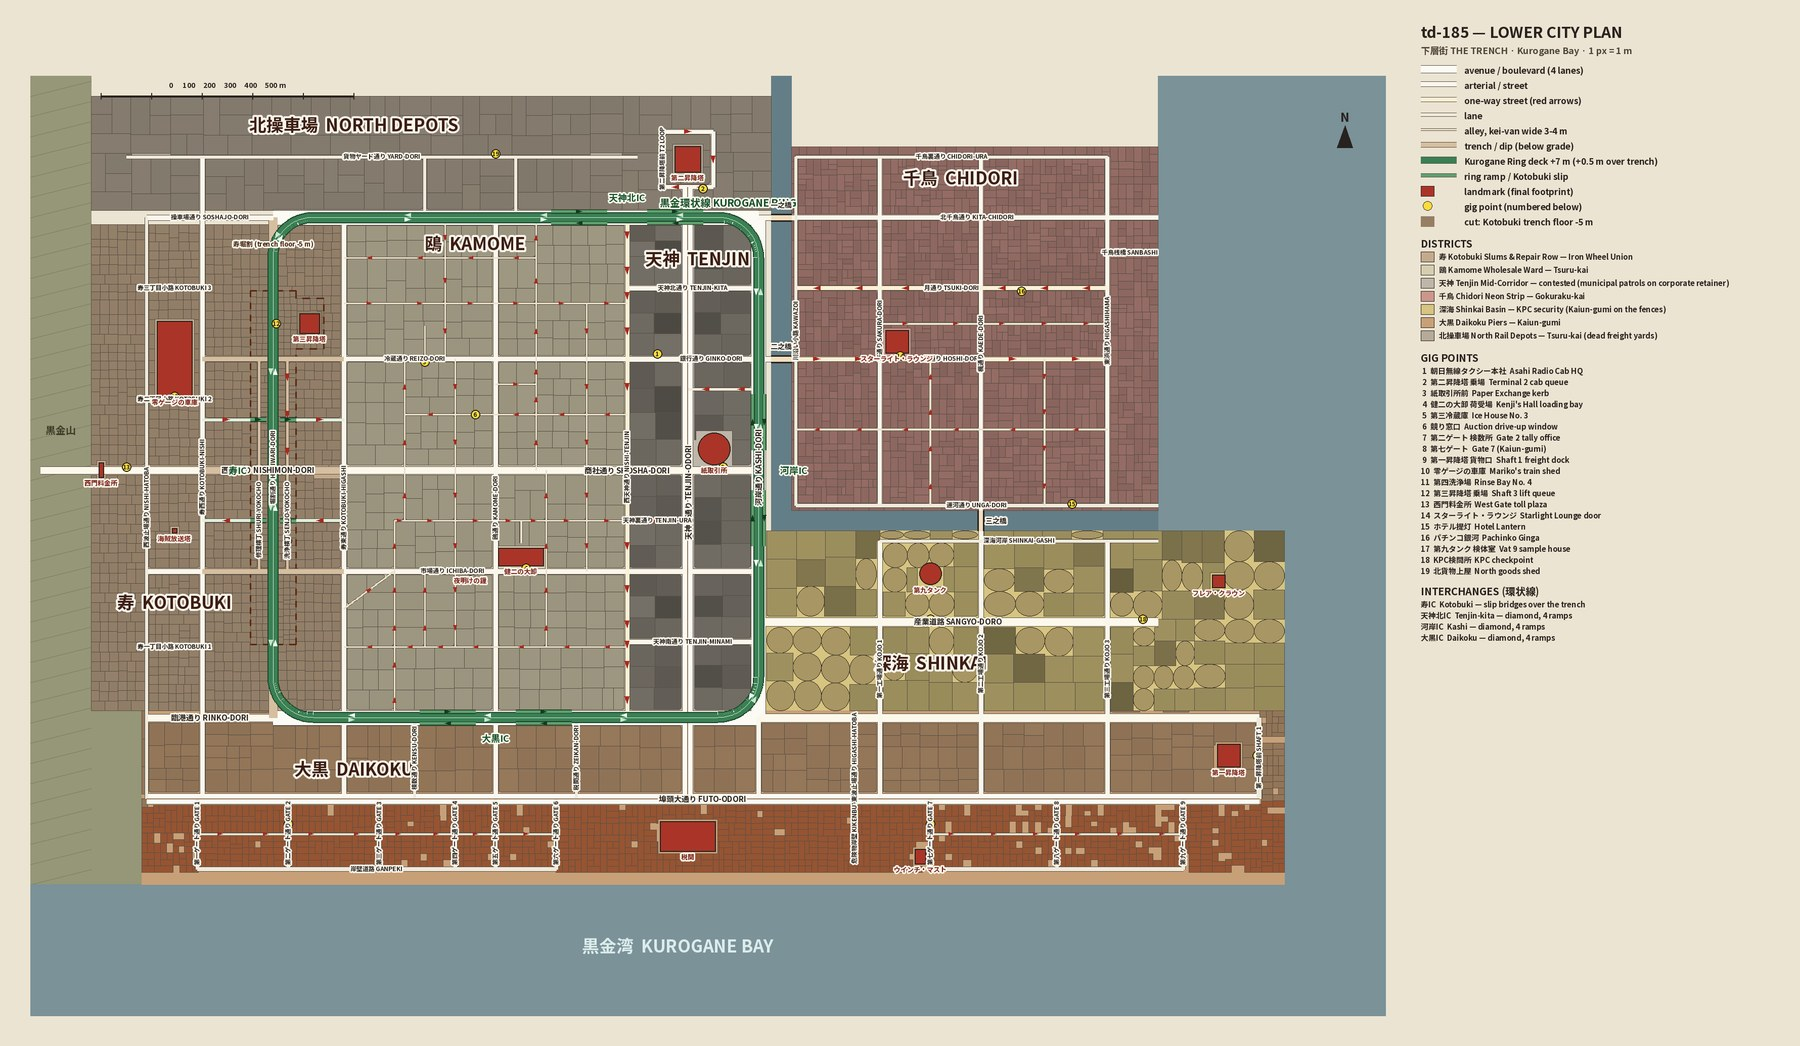
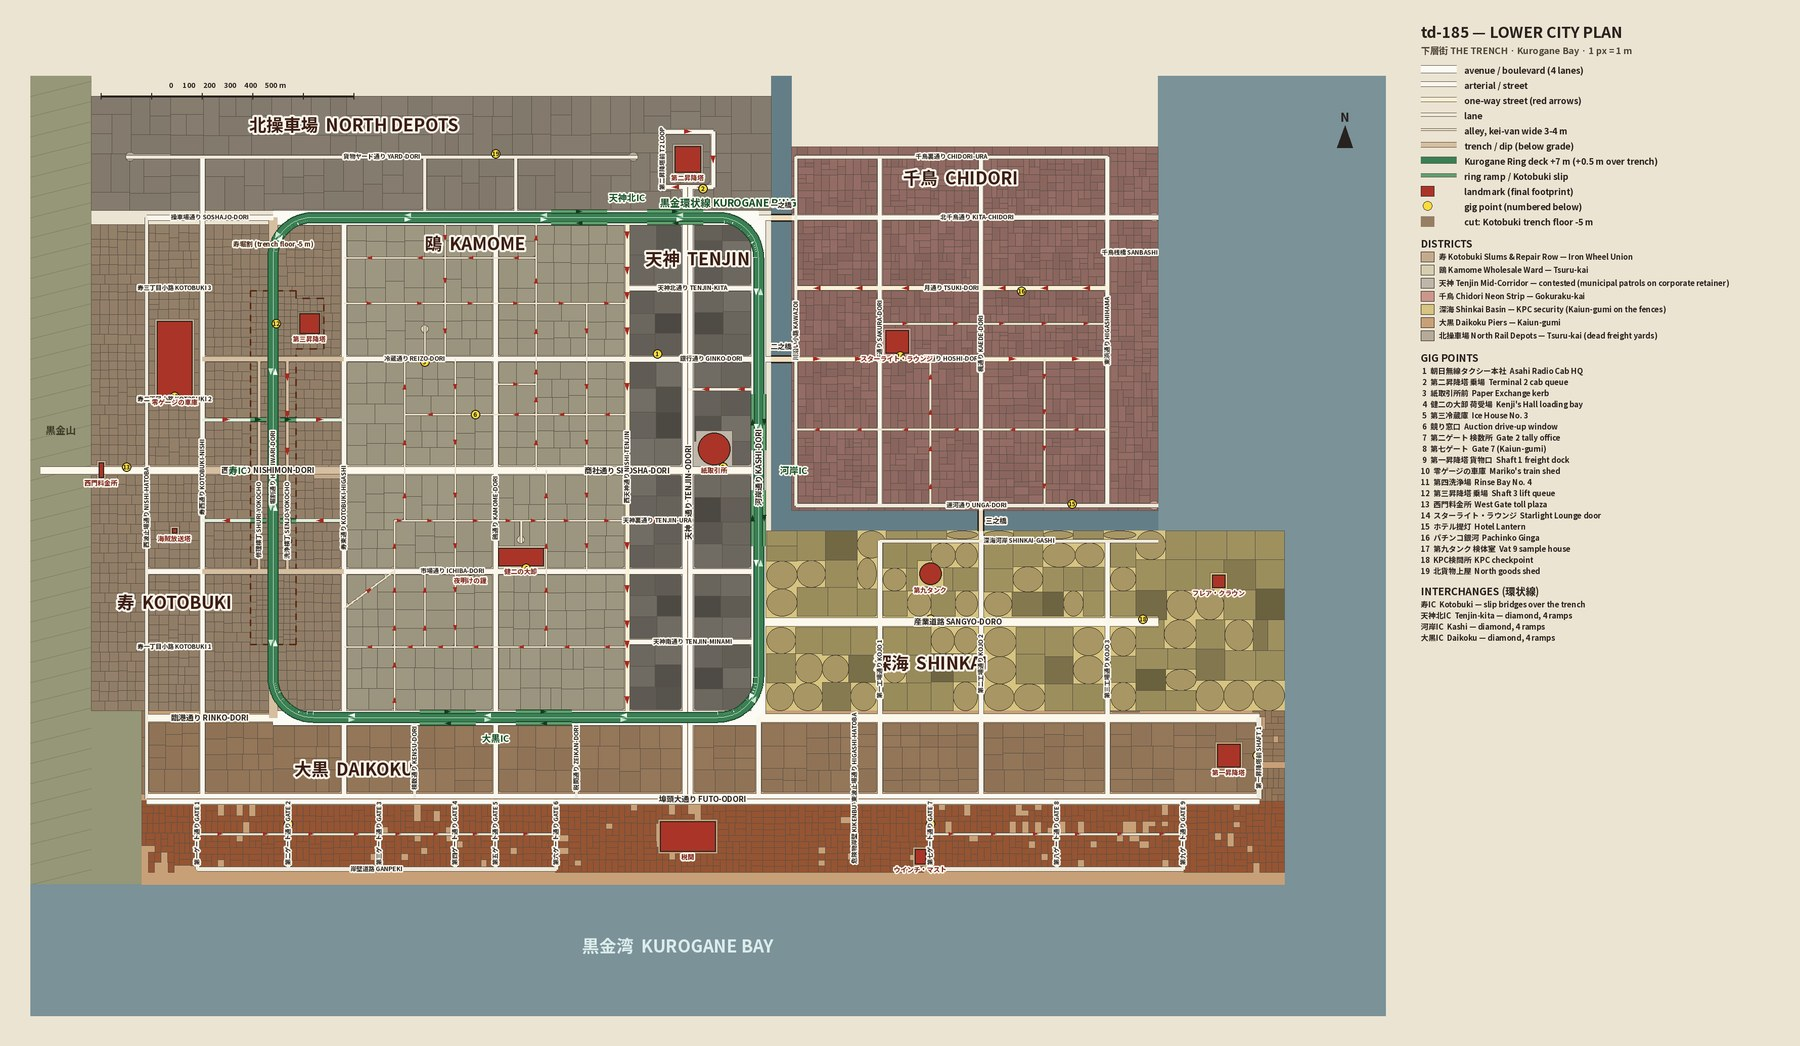
Mirror td-185 evidence (source 5f4f3a0)
qa/td-185/ from tokyo-drift-3d godot/qa/td-185/ at 5f4f3a0: district
triptychs, before/after pairs, behind-car frames, the signs board, a
timed gig run, the paper map, a phone portrait strip, test logs, and the
regenerated plan diagrams.

Claude-Session: https://claude.ai/code/session_01GGh7tcyWgHuAv7fsgdUsQN

diff --git a/qa/td-185/README.md b/qa/td-185/README.md
@@ -1,0 +1,116 @@
+# td-185 evidence — Lower City first pass (city plan, road system, signs, minimal gig loop)
+
+Every image here was produced by the tools in this PR from the real `scenes/lower_city/lower_city.tscn`
+(Godot 4.7.2, gl_compatibility / opengl3, 1280×720 unless noted, chase camera behind the car) and was
+opened and checked before being listed. Mirrored to tokyo-drift-3d-web `qa/td-185/` (commit-pinned raw URLs
+in the PR body).
+
+## Plan (step 1, regenerated with the plan's later fixes)
+
+- `plan/city-plan.png` (+ `-small.jpg`) — the top-down plan: 7 districts, ~90 streets and alleys, one-ways,
+  the Kurogane Ring with 4 interchanges and 16 ramps, the Kotobuki trench, 3 canal bridges, 14 landmarks at
+  final footprint, 19 gig points. Generated by `tools/lower_city/build_city.py` from `citydef.py`.
+- `plan/signs-plan.png` (+ `-small.jpg`) — the guide-sign plan computed from the routing graph.
+
+## Triptychs — [REFERENCE] art-book mock · [IMPLEMENTATION] art-book mock · in-game
+
+Mocks: tokyo-drift-3d-web `art-book/lower-city/*.png` at commit `c50959b` (the web publisher's run deleted
+`art-book/` from web `main`). **The real-photo panel is missing:** this cloud container's network policy
+denies `commons.wikimedia.org`, `upload.wikimedia.org`, `api.openverse.org` and `www.flickr.com`, so no
+real reference photos could be fetched. Fix: allow those domains in the environment's Network access
+(Custom → Allowed domains); a follow-up then adds the photo panels.
+
+- `triptych/kotobuki.jpg` — 寿 repair row under the Ring. In-game: the trench floor under the Ring's lid
+  (dark concrete sky, dark repair-bay mouths along the walls, an arc-welder flare stuttering in a bay).
+  Gap vs the mocks: no Hakosuka on stands, no mechanics, no bay interiors yet — the greybox carries the
+  space and the light, not the props.
+- `triptych/kamome.jpg` — 鴎 market lanes. In-game: corrugated eaves with fascia boards and paper lanterns
+  on both sides. Gap: no 鮮魚 / 水産 blade signs, fish crates, kei vans or workers yet.
+- `triptych/chidori.jpg` — 千鳥 authored night. In-game: the warm red-amber night, a slalom of lit blade
+  signs lettered in-scene (小料理さくら, 食堂まつ, おでん, ストリップ劇場 …). Closest of the five to its mock.
+  Gap: no lanterns strung across, no booth / sealed-glass storefronts.
+- `triptych/tenjin.jpg` — 天神 gateway. In-game: the district gateway arch with 天神 TENJIN over Ginko-dori
+  between the slab walls. Gap: the mock's truss gantry and checkpoint booths are not built.
+- `triptych/shinkai.jpg` — 深海 (reference mock only; no implementation mock exists). In-game: a pipe gantry
+  over the haul road at 3.8 m with pipe runs between gantries, the sulfur-yellow haze. Gap: the spherical
+  vats and flare stacks exist in the city but not in this frame; no trucks.
+- `triptych/daikoku.jpg`, `triptych/depots-ring.jpg` — no art-book mock exists for Daikoku, the depots or
+  the Ring: in-game pairs only (quay cranes and sodium flood masts with painted pools; container stacks;
+  T2's beacon column over the goods sheds; the Ring's outer carriageway).
+
+## Before / after (same station, same camera; before = the first greybox build)
+
+- `before-after/ring-deck.jpg` — an ink line every 2 m deck sample read as tiles → un-inked deck family.
+- `before-after/t2-from-tenjin.jpg` — Terminal 2 lost past the race maps' 600 m far plane → 2.6 km far plane
+  and beacons on every face of the shafts (landmarks are how a driver navigates here).
+- `before-after/chidori.jpg` — dusty daylight → authored night, lettered blade signs, the 一方通行 plate.
+- `before-after/kamome.jpg` — bare street → corrugated eaves, fascia boards, paper lanterns.
+
+## Behind-car frames — `behind-car/*.jpg`
+
+kotobuki_bays, kotobuki_trench (under the Ring's lid), kotobuki_dip (Nishimon-dori dipping into the trench),
+kamome_ichiba, kamome_alley, tenjin_canyon (T2 at the head of Tenjin Odori), hq (天神 gateway on Ginko-dori),
+bridge (the 天神 arch at the Ring's east leg), chidori_strip, chidori_tsuki, shinkai_haul, daikoku_apron,
+daikoku_quay, depots, ring_deck. `aerial-fog-off.jpg`: the whole city with the fog off and every chunk drawn
+(evidence only — the game never renders this).
+
+## Signs — `signs/signs-board.jpg`
+
+All 1,099 plan signs stand in the city, physically mounted, none floating, none on a timer; lettering is
+real text laid out in-scene from the plan's strings (one glyph atlas from the bundled OFL subset font).
+Tiles: a guide gantry (per-direction arrows, district names, romaji, street boxes, the green 環状 badge); a
+post-mounted guide sign; enamel street plates (西天神通り NISHI-TENJIN) and the Ring's green 入口 sign; a
+高さ制限 3.9m plate before the ramp underpass under the 天神 arch; a Ring 出口 420m advance sign; a Shinkai
+pipe gantry with a painted gig bay; Chidori's blade signs and a 一方通行 plate; 止まれ.
+
+## A timed gig, driven — `gig/gig-run.jpg` (+ the six frames)
+
+Starlight Lounge (千鳥) → Gate 2 tally office (大黒), fresh fish, 2.51 km via 星通り → 楓通り → 第二工場通り →
+埠頭大通り: the offer board; the job card (pickup address, the way as street names, the clock not yet
+running); stopped in the painted 荷捌き bay — loading; the delivery with the clock running; unloading at
+the drop-off bay; the settlement chit (fare ¥4,410 × on time 1.11 × cargo 100% = ¥4,890; 2:23 of 4:15).
+Driven by `tools/capture_lower_city_gig.gd`'s CityDriver on the real collision; touch HUD shown.
+
+## Map — `map/paper-map.jpg`, `map/paper-map-gig-circled.jpg`
+
+The paper road map drawn in-engine from the plan; no "you are here". The second frame is the same map with
+the run's pickup and drop-off circled by the dispatcher.
+
+## Phone — `phone/portrait-strip.jpg`
+
+720×1280: Chidori, Kamome, the job card, the paper map (opens zoomed in portrait).
+
+## Tests (logs in `tests/`)
+
+| suite | result |
+|---|---|
+| `tools/test_lower_city_build.gd` | builds in ~1.2 s; probes on the trench floor, the Ring lid and deck, a bridge crown, a dip; Tenjin Odori clear under the Ring's ramps; dressing and atmosphere present; every plan sign built, every glyph present, **no sign post in a carriageway** |
+| `tools/test_lower_city_drive.gd` | CityDriver tour of 21 legs through every district, the Ring, ramps, trench floor, alleys, a bridge: 19.6 km, **0 stuck, 0 recoveries** |
+| `tools/test_lower_city_signs.gd` | a first-timer reading only the built signs: **3837/3837** road→district with the paper map's knowledge, 3715/3837 on signs alone; 12 sign-decided cross-city trips driven **12/12**, 0 stuck, 0 recoveries |
+| `tools/test_lower_city_gig.gd` | 4 gigs end to end: **4/4 on time**, cargo 100 / 100 / 100 / 95 % (run 3 clipped the corner of a Kamome market alley pulling out of the 競り窓口 bay at 12 km/h: one 3 % knock), 49–56% of the limit used, ¥16,120; a deliberate wall crash wrecks the cargo |
+
+The four logs come from one run of all four suites in parallel. `drive.log` and `gig.log` each carry one
+`WARNING: Jolt Physics job system exceeded the maximum number of jobs` at load: that only happens with four
+engines sharing this container's cores. `gig-solo.log`, the gig suite run alone, has no warning and gives
+the same numbers.
+
+Plan gates (`build_city.py`, the build fails otherwise): no traps; ≥ 3 meaningfully different routes for
+every ordered district pair; sign-following first-timer 3837/3837; every gig pair reachable; every ramp
+over-crossing ≥ 3.8 m headroom; no Ring pier in a carriageway.
+
+## Performance (1280×720 chase frames, `CITY_STATS` lines from the capture)
+
+107–154 draw calls and 42k–72k primitives per frame across the stations above; about 60 of those draw
+calls are the car (52 of them its wheels: the shared car model draws each wheel as ~13 primitive meshes —
+a cross-map follow-up, not changed here). The city itself: ~45–95.
+
+## Reproduce (repo root)
+
+```
+TD185_FONT=<Noto Sans JP Bold TTF> python3 godot/tools/lower_city/build_city.py
+xvfb-run -a -s '-screen 0 1280x720x24' .tools/Godot_v4.7.2-stable_linux.x86_64 --path godot \
+  --rendering-driver opengl3 --audio-driver Dummy --fixed-fps 60 \
+  -s tools/capture_lower_city.gd -- <out> landscape <stations> --hud=off
+xvfb-run ... -s tools/capture_lower_city_gig.gd -- <out> 0
+.tools/Godot_v4.7.2-stable_linux.x86_64 --headless --path godot --fixed-fps 60 -s tools/test_lower_city_<suite>.gd
+```
